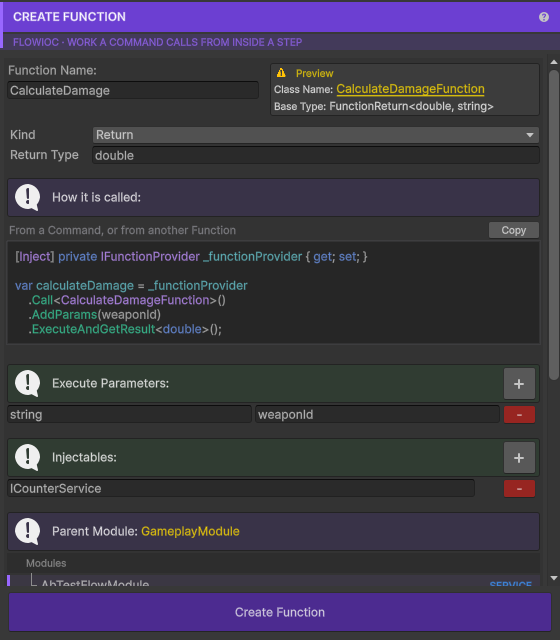
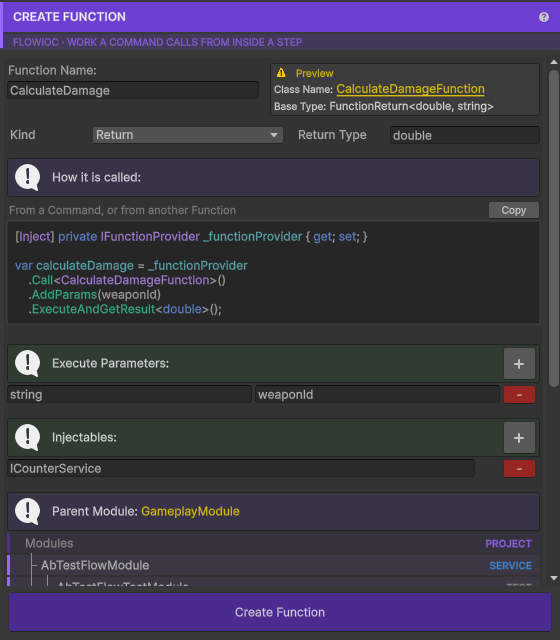
feat: a row that is not a pick is shaded, and so is an unwritten folder
A row nobody can act on - the modules folder heading a picker, a module
that cannot host what is being made, a folder left unticked and everything
under it - keeps its tint and its name at full size and is taken down a few
tones, the stripe further, rather than blacked out in small grey text. The
modules folder carries the PROJECT badge Module Scanner gives its own top
row, in FlowIoC's colour.

Create Module keeps its toggles in the right column when there is no role
row to hold the left one open, and the sections spanning both columns take
the columns' width so a scrollbar does not cover their edge. Create Function
puts the return or callback type beside the kind, and the note that an
async function takes no parameters is a warning where the parameters would
have been.

diff --git a/Editor/CodeGenerator/Menus/CreateFunctionMenu.cs b/Editor/CodeGenerator/Menus/CreateFunctionMenu.cs
@@ -29,6 +29,9 @@ namespace FlowIoC.Editor.CodeGenerator.Menus
 
         private const float PANEL_HEADER_HEIGHT = 33f;
 
+        /// <summary>The air between the two halves of a row, the same the name row keeps.</summary>
+        private const float COLUMNS_SPACING = 8f;
+
         private const string FUNCTION_NAME_LABEL = "Function Name: ";
         private const string CREATE_FUNCTION_BUTTON = "Create Function";
         private const string ADD_PARAMETER_BUTTON = "Add Parameter";
@@ -122,36 +125,60 @@ namespace FlowIoC.Editor.CodeGenerator.Menus
         /// </summary>
         private string BaseTypePreview() => _writer.BaseTypeFor(BuildRequest("Preview"));
 
+        /// <summary>
+        /// The kind on the left and, on the right, the one field the kind asks for - a return
+        /// type, or the type an async callback carries - on the same line, in the two columns
+        /// the name and its preview stand in above. A void function asks for nothing, and the
+        /// right half stays empty rather than closing up, so the kind does not slide about.
+        /// </summary>
         private void DisplayKindSection()
         {
+            float half = Mathf.Round((EditorGUIUtility.currentViewWidth - COLUMNS_SPACING) * 0.5f);
+
             EditorGUILayout.BeginHorizontal();
+
+            EditorGUILayout.BeginHorizontal(GUILayout.Width(half));
             GUILayout.Label("Kind", GUILayout.Width(80));
             _kind = (FunctionKind) EditorGUILayout.EnumPopup(_kind);
             EditorGUILayout.EndHorizontal();
 
-            if (_kind == FunctionKind.Void) return;
+            GUILayout.Space(COLUMNS_SPACING);
 
             EditorGUILayout.BeginHorizontal();
-            GUILayout.Label(_kind == FunctionKind.Async ? "Callback Type" : "Return Type", GUILayout.Width(80));
-            _returnType = EditorGUILayout.TextField(_returnType);
+
+            if (_kind != FunctionKind.Void)
+            {
+                GUILayout.Label(_kind == FunctionKind.Async ? "Callback Type" : "Return Type", GUILayout.Width(90));
+                _returnType = EditorGUILayout.TextField(_returnType);
+            }
+            else
+            {
+                GUILayout.FlexibleSpace();
+            }
+
             EditorGUILayout.EndHorizontal();
 
-            if (_kind == FunctionKind.Async)
-            {
-                EditorGUILayout.HelpBox(
-                    "An async function's Execute takes no parameters and returns IEnumerator. It answers through " +
-                    "FunctionCompletedCallback, and an empty Callback Type gives the arity that carries no value.",
-                    MessageType.Info);
-            }
+            EditorGUILayout.EndHorizontal();
+
         }
 
         /// <summary>
         /// The parameters of Execute, up to the four the shipped arities go to. An async function
-        /// has none at all, so the section is not drawn for it rather than drawn and ignored.
+        /// has none at all, so the section gives way to the warning that says so - drawn where
+        /// the list would have been, so the reader looking for it finds the reason instead.
         /// </summary>
         private void DisplayParametersSection()
         {
-            if (_kind == FunctionKind.Async) return;
+            if (_kind == FunctionKind.Async)
+            {
+                EditorGUILayout.Space(10);
+                EditorGUILayout.HelpBox(
+                    "An async function's Execute takes no parameters and returns IEnumerator. It answers through "
+                    + "FunctionCompletedCallback, and an empty Callback Type gives the arity that carries no value.",
+                    MessageType.Warning);
+
+                return;
+            }
 
             if (_listBar.Draw(PARAMETERS_LABEL, ADD_PARAMETER_BUTTON, _parameters.Count < FunctionScriptWriter.MAX_PARAMETERS))
                 _parameters.Add(new FunctionParameter {Type = "int", Name = "value"});

diff --git a/Editor/CodeGenerator/Menus/Module/ModulePicker.cs b/Editor/CodeGenerator/Menus/Module/ModulePicker.cs
@@ -15,8 +15,8 @@ namespace FlowIoC.Editor.CodeGenerator.Menus.Module
     /// inside which, and a foldout would hide exactly that behind a click.
     ///
     /// The whole row is the button. A row the rules say cannot host what is being created is
-    /// drawn dim, takes no click and does not light up under the pointer: a highlight promises a
-    /// click that does something, and this one would not.
+    /// drawn a few tones darker, takes no click and does not light up under the pointer: a
+    /// highlight promises a click that does something, and this one would not.
     /// </summary>
     internal class ModulePicker
     {
@@ -28,6 +28,13 @@ namespace FlowIoC.Editor.CodeGenerator.Menus.Module
         /// level module from a nested one, so it is built the way the generator builds it.
         /// </summary>
         private const string ROOT_LABEL = "Modules";
+
+        /// <summary>
+        /// What the modules folder's badge says, where a module's says what its Root roots. The
+        /// word Module Scanner puts on the row over every module, in FlowIoC's own colour: the
+        /// folder is the project's, not any module's.
+        /// </summary>
+        private const string ROOT_BADGE = "PROJECT";
 
         private readonly object _rootKey = new object();
         private const float BADGE_WIDTH = 78f;
@@ -44,12 +51,6 @@ namespace FlowIoC.Editor.CodeGenerator.Menus.Module
 
         /// <summary>The dot at a size that fits the column: the label glyph is twice what the column has room for.</summary>
         private const int PICK_MARK_SIZE = 7;
-
-        /// <summary>
-        /// A row that cannot be picked, taken down rather than tinted - it is out of the question
-        /// rather than in a state.
-        /// </summary>
-        private const float DIM_ALPHA = 0.12f;
 
         private readonly FlowRowPainter _rows = new FlowRowPainter();
         private readonly FlowTreePainter _tree;
@@ -140,7 +141,10 @@ namespace FlowIoC.Editor.CodeGenerator.Menus.Module
             Color accent = _palette.Chrome(EditorGUIUtility.isProSkin);
             bool hovered = selectable && _rows.IsHovered(rect);
 
-            if (!selectable) _rows.Darken(rect, DIM_ALPHA);
+            // A row that is not a pick - the modules folder while a module is being made inside one,
+            // a module that cannot host what is being made - is shaded rather than blacked out: it
+            // keeps its tint and its name at full size and reads as a row to be read, not a gap.
+            if (!selectable) _rows.PaintShaded(rect, accent);
             else if (selected) _rows.Paint(rect, accent, FlowRowPainter.HEADING_ALPHA);
             else _rows.Paint(rect, accent, hovered ? FlowRowPainter.FILL_ALPHA : FlowRowPainter.QUIET_ALPHA);
 
@@ -157,13 +161,12 @@ namespace FlowIoC.Editor.CodeGenerator.Menus.Module
             float room = rect.xMax - BADGE_WIDTH - 10f - x;
 
             GUI.Label(new Rect(x, rect.y, room, rect.height), label,
-                selectable ? _rows.Name(hovered || selected) : _rows.Mini(false));
+                selectable ? _rows.Name(hovered || selected) : _rows.Muted());
 
-            if (pick != null)
-            {
-                GUI.Label(new Rect(rect.xMax - BADGE_WIDTH - 6f, rect.y, BADGE_WIDTH, rect.height),
-                    _badge.Text(pick), _badge.Style(pick, _rows, hovered));
-            }
+            var badge = new Rect(rect.xMax - BADGE_WIDTH - 6f, rect.y, BADGE_WIDTH, rect.height);
+
+            if (pick != null) GUI.Label(badge, _badge.Text(pick), _badge.Style(pick, _rows, hovered));
+            else GUI.Label(badge, ROOT_BADGE, _rows.BadgeIn(accent));
 
             picked = false;
 

diff --git a/Editor/CodeGenerator/Menus/Module/CreateModule/CreateModuleMenu.Preview.cs b/Editor/CodeGenerator/Menus/Module/CreateModule/CreateModuleMenu.Preview.cs
@@ -94,20 +94,24 @@ namespace FlowIoC.Editor.CodeGenerator.Menus.Module.CreateModule
         {
             _previewTree.Begin();
 
-            DrawFolderPreview(folders, 0, null);
+            DrawFolderPreview(folders, 0, null, false);
         }
 
-        private void DrawFolderPreview(List<FolderEVO> folders, int depth, FolderEVO parent)
+        /// <summary>
+        /// <paramref name="leftOut"/> is whether a folder above this level was unticked: a folder
+        /// under one that is not written is not written either, whatever its own box says.
+        /// </summary>
+        private void DrawFolderPreview(List<FolderEVO> folders, int depth, FolderEVO parent, bool leftOut)
         {
             foreach (FolderEVO folder in folders)
             {
                 if (!folder.IsMandatory && !folder.IsOptional)
                     continue;
 
-                DrawFolderRow(folder, depth, parent);
+                bool written = DrawFolderRow(folder, depth, parent, leftOut);
 
                 if (folder.SubFolders != null && folder.SubFolders.Count > 0)
-                    DrawFolderPreview(folder.SubFolders, depth + 1, folder);
+                    DrawFolderPreview(folder.SubFolders, depth + 1, folder, !written);
             }
         }
 
@@ -115,12 +119,21 @@ namespace FlowIoC.Editor.CodeGenerator.Menus.Module.CreateModule
         /// One folder: the checkbox at the row's edge for a folder the reader may leave out, nothing
         /// there for one the layout insists on, then the name and what the folder is for.
         /// The row does not light up under the pointer - the checkbox is the one thing to press.
+        /// A folder that will not be written - unticked, or under one that is - is shaded and its
+        /// name muted, so the tree shows what the module will actually get. Answers whether the
+        /// folder is written, which is what its children hang on.
         /// </summary>
-        private void DrawFolderRow(FolderEVO folder, int depth, FolderEVO parent)
+        private bool DrawFolderRow(FolderEVO folder, int depth, FolderEVO parent, bool leftOut)
         {
             Rect rect = _previewRows.RowInset();
+            Color accent = new FlowPalette().Chrome(EditorGUIUtility.isProSkin);
 
-            _previewRows.Paint(rect, new FlowPalette().Chrome(EditorGUIUtility.isProSkin), FlowRowPainter.QUIET_ALPHA);
+            bool ticked = !folder.IsOptional || _selectedOptionalFolders.Contains(folder);
+            bool written = ticked && !leftOut;
+
+            if (written) _previewRows.Paint(rect, accent, FlowRowPainter.QUIET_ALPHA);
+            else _previewRows.PaintShaded(rect, accent);
+
             _previewTree.Hang(folder, rect, depth, parent);
 
             if (folder.IsOptional)
@@ -136,12 +149,14 @@ namespace FlowIoC.Editor.CodeGenerator.Menus.Module.CreateModule
             float x = _previewTree.TextX(rect, depth);
 
             var label = new GUIContent(folder.FolderName);
-            GUIStyle nameStyle = _previewRows.Name(false);
+            GUIStyle nameStyle = written ? _previewRows.Name(false) : _previewRows.Muted();
             float nameWidth = nameStyle.CalcSize(label).x;
 
             GUI.Label(new Rect(x, rect.y, nameWidth, rect.height), label, nameStyle);
 
             DrawHint(_previewHints.For(folder), new Rect(x + nameWidth + 8f, rect.y, rect.xMax - x - nameWidth - 14f, rect.height));
+
+            return written;
         }
 
         /// <summary>

diff --git a/Editor/Inspector/FlowRowPainter.cs b/Editor/Inspector/FlowRowPainter.cs
@@ -32,6 +32,11 @@ namespace FlowIoC.Editor.Inspector
         /// </summary>
         public const float QUIET_ALPHA = 0.08f;
 
+        /// <summary>How much darker than a quiet row a shaded one is, and how much darker its stripe.</summary>
+        private const float SHADE = 0.10f;
+
+        private const float STRIPE_SHADE = 0.45f;
+
         /// <summary>
         /// What a row's text sits at while the pointer is elsewhere. Off white rather than white,
         /// so a row has somewhere to go when the pointer arrives.
@@ -49,6 +54,7 @@ namespace FlowIoC.Editor.Inspector
         private readonly GUIStyle[] _strong = new GUIStyle[2];
         private readonly GUIStyle[] _cell = new GUIStyle[2];
         private readonly GUIStyle[] _mini = new GUIStyle[2];
+        private readonly GUIStyle[] _muted = new GUIStyle[2];
         private readonly GUIStyle[] _miniWrapped = new GUIStyle[2];
         private readonly GUIStyle[] _badge = new GUIStyle[2];
 
@@ -120,6 +126,20 @@ namespace FlowIoC.Editor.Inspector
         }
 
         /// <summary>
+        /// A row that is there to be read and not to be acted on - the folder a tree hangs from, a
+        /// module that cannot host what is being made, a folder that has been left out: the quiet
+        /// tint taken down a few tones, the stripe further still so the edge says it too. A few
+        /// tones rather than a blackout, so the row keeps its place in the list and its name
+        /// stays legible in <see cref="Muted"/>.
+        /// </summary>
+        public void PaintShaded(Rect rect, Color accent)
+        {
+            Paint(rect, accent, QUIET_ALPHA);
+            Darken(rect, SHADE);
+            Darken(new Rect(rect.x, rect.y, STRIPE_WIDTH, rect.height), STRIPE_SHADE);
+        }
+
+        /// <summary>
         /// The line a nested row hangs from: down from the arrow of the row it lives in, then
         /// across to its own. Opaque, so the segments the rows draw one after another overlap
         /// without a darker joint where they meet, and grey rather than a status colour - the
@@ -172,6 +192,16 @@ namespace FlowIoC.Editor.Inspector
         public GUIStyle Mini(bool hovered)
         {
             return Style(_mini, hovered, EditorStyles.miniLabel, TextAnchor.MiddleLeft, IdleMuted, HoverMuted);
+        }
+
+        /// <summary>
+        /// A name at its full size but taken down to the quiet grey: a row that is there to be read
+        /// and not to be picked - the folder a tree hangs from, a module that cannot host what is
+        /// being made. Smaller text would say the row matters less; it does not, it only does less.
+        /// </summary>
+        public GUIStyle Muted()
+        {
+            return Style(_muted, false, EditorStyles.label, TextAnchor.MiddleLeft, IdleMuted, HoverMuted);
         }
 
         /// <summary>

diff --git a/Editor/CodeGenerator/Menus/Module/CreateModule/CreateModuleMenu.cs b/Editor/CodeGenerator/Menus/Module/CreateModule/CreateModuleMenu.cs
@@ -333,6 +333,11 @@ namespace FlowIoC.Editor.CodeGenerator.Menus.Module.CreateModule
 
             EditorGUILayout.BeginHorizontal(GUILayout.Width(leftWidth));
             DrawModuleRole();
+
+            // Holds the column open when there is no role to draw - a screen or a test module - so
+            // the toggles beside it stay in the right column rather than sliding into this one.
+            // Only then: beside the dropdown it would take half the width the dropdown expands into.
+            if (_selectedModuleType != ModuleType.Main || !_createRoot) GUILayout.FlexibleSpace();
             EditorGUILayout.EndHorizontal();
 
             GUILayout.Space(COLUMNS_SPACING);
@@ -346,8 +351,15 @@ namespace FlowIoC.Editor.CodeGenerator.Menus.Module.CreateModule
 
             EditorGUILayout.EndHorizontal();
 
+            // The sections that span both columns are given the columns' width outright rather than
+            // left to fill the scroll view: its content runs under the scrollbar once one shows,
+            // and a section that filled it would lose its right edge behind the bar.
             if (_selectedModuleType == ModuleType.Screen)
+            {
+                EditorGUILayout.BeginVertical(GUILayout.Width(viewWidth));
                 DrawScreenSettings();
+                EditorGUILayout.EndVertical();
+            }
 
             // The two panels answer one question each - what the module will contain, and where it
             // will sit - so they are read together, side by side, and split the width evenly.
@@ -382,7 +394,9 @@ namespace FlowIoC.Editor.CodeGenerator.Menus.Module.CreateModule
 
             if (_selectedModuleType == ModuleType.Screen)
             {
+                EditorGUILayout.BeginVertical(GUILayout.Width(viewWidth));
                 DisplayActionsSection();
+                EditorGUILayout.EndVertical();
             }
 
             // A rect of no height at the foot of the content is where the content ends, and the

diff --git a/Editor/CodeGenerator/Menus/Module/DeleteModule/DeleteModuleMenu.cs b/Editor/CodeGenerator/Menus/Module/DeleteModule/DeleteModuleMenu.cs
@@ -19,6 +19,8 @@ namespace FlowIoC.Editor.CodeGenerator.Menus.Module.DeleteModule
         /// <summary>The row over the whole tree: the modules folder, which every top level module hangs from.</summary>
         private const string ROOT_LABEL = "Modules";
 
+        private const string ROOT_BADGE = "PROJECT";
+
         private Vector2 _scrollPosition;
         private string _searchText = "";
 
@@ -136,11 +138,18 @@ namespace FlowIoC.Editor.CodeGenerator.Menus.Module.DeleteModule
         private void DrawRootRow()
         {
             Rect rect = _rows.Row();
+            Color accent = _palette.Chrome(EditorGUIUtility.isProSkin);
 
-            _rows.Paint(rect, _palette.Chrome(EditorGUIUtility.isProSkin), FlowRowPainter.QUIET_ALPHA);
+            _rows.Paint(rect, accent, FlowRowPainter.QUIET_ALPHA);
             _tree.Hang(_rootKey, rect, 0, null);
 
             GUI.Label(new Rect(_tree.TextX(rect, 0), rect.y, rect.width, rect.height), ROOT_LABEL, _rows.Name(false));
+
+            // The same word Module Scanner and the pickers put on this row, in the badge column the
+            // module rows use, so the folder reads as one thing wherever it heads a tree.
+            float right = rect.xMax - BUTTON_WIDTH - 12f;
+
+            GUI.Label(new Rect(right - BADGE_WIDTH, rect.y, BADGE_WIDTH, rect.height), ROOT_BADGE, _rows.BadgeIn(accent));
         }
 
         private void DrawModuleRow(ModuleTreeRowEVO<ModulePickEVO> entry)
